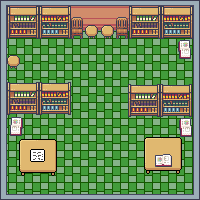
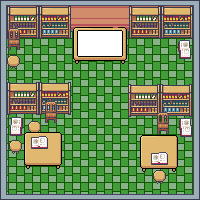
Signed-off-by: Aaron  Jones <jon17049@byui.edu>

diff --git a/README.md b/README.md
@@ -8,39 +8,38 @@ Background Story: An unlucky kid was locked in the school, and he is trying to s
 
 ![](assets/rooms/mathroom.png)
 
-The room has question on the whiteboard. And the door next to whiteboard is locked by number password. He needs to find a way to solve the pasword. After he has solved the question then he needs to head to the Science Lab.
+The room has question on the whiteboard. And the door next to whiteboard is locked. He needs to find a way to solve the math quiz in order to get acceses for the next room.
 
-## Room 2(Science Lab):
-
-![](assets/rooms/science_room.png)
-
-Science lab has a lot of chemical liquids in beaker. And referring to material notice on the notice board, mix colorful liquids by getting and using each color liquid in the sicence lab, and make correct color medicine, then the lock for teacher's table drawer will be unlocked. There is an answer. After player got science answer, head to Reading and Writing Center.
-
-## Room 3(Reading and Writing Center):
+## Room 2(Reading and Writing Center):
 
 ![](assets/rooms/library.png)
 
 In the reading center, there is a Scrabble and play it, and the blank letter space with color. And the word by connecting the color letters will be the answer to open a shelf which has an answer.
 
-Purpose:
-The purpose of this game is to help kids around 6th grade to learn by playing game.
+## Room 3(Science Lab):
 
-Below is the software demo video:
-[Software Demo Video](http://youtube.link.goes.here)
+![](assets/rooms/science_room.png)
+
+Science lab needs you to figure out how to fix colors and find what's the color that is matching the quiz. After he has solved all the quiz for the color then he is able to access the exit door in order to get free.
+
+Purpose:
+The purpose of this game is to help children around 2nd grade to learn by playing game.
 
 # Development Environment
 
-{Describe the tools that you used to develop the software}
-
-{Describe the programming language that you used and any libraries.}
+- Python 3.9.6 64-bit
+- Visual Studio Code
+- Pygame 2.0
 
 # Useful Websites
 
 -  [Pygame](https://www.pygame.org/docs/)
 -  [Visual Studio Code](https://code.visualstudio.com/)
 
-# Future Work
+# Contributors
 
--  Item 1
--  Item 2
--  Item 3
+- [Team Lead Aaron Jones](https://github.com/Aaronlongstocking97)
+- [Quality Assurance Xing Gao](https://github.com/SolomonGao)
+- [Project Manager Aoi Kuriki](https://github.com/A0i-Noel)
+- [Graphic Designer Todd Wahlquist](https://github.com/Blazelighter)
+- [Documentation Manager Kai Zhang](https://github.com/KaiTheOcean)
